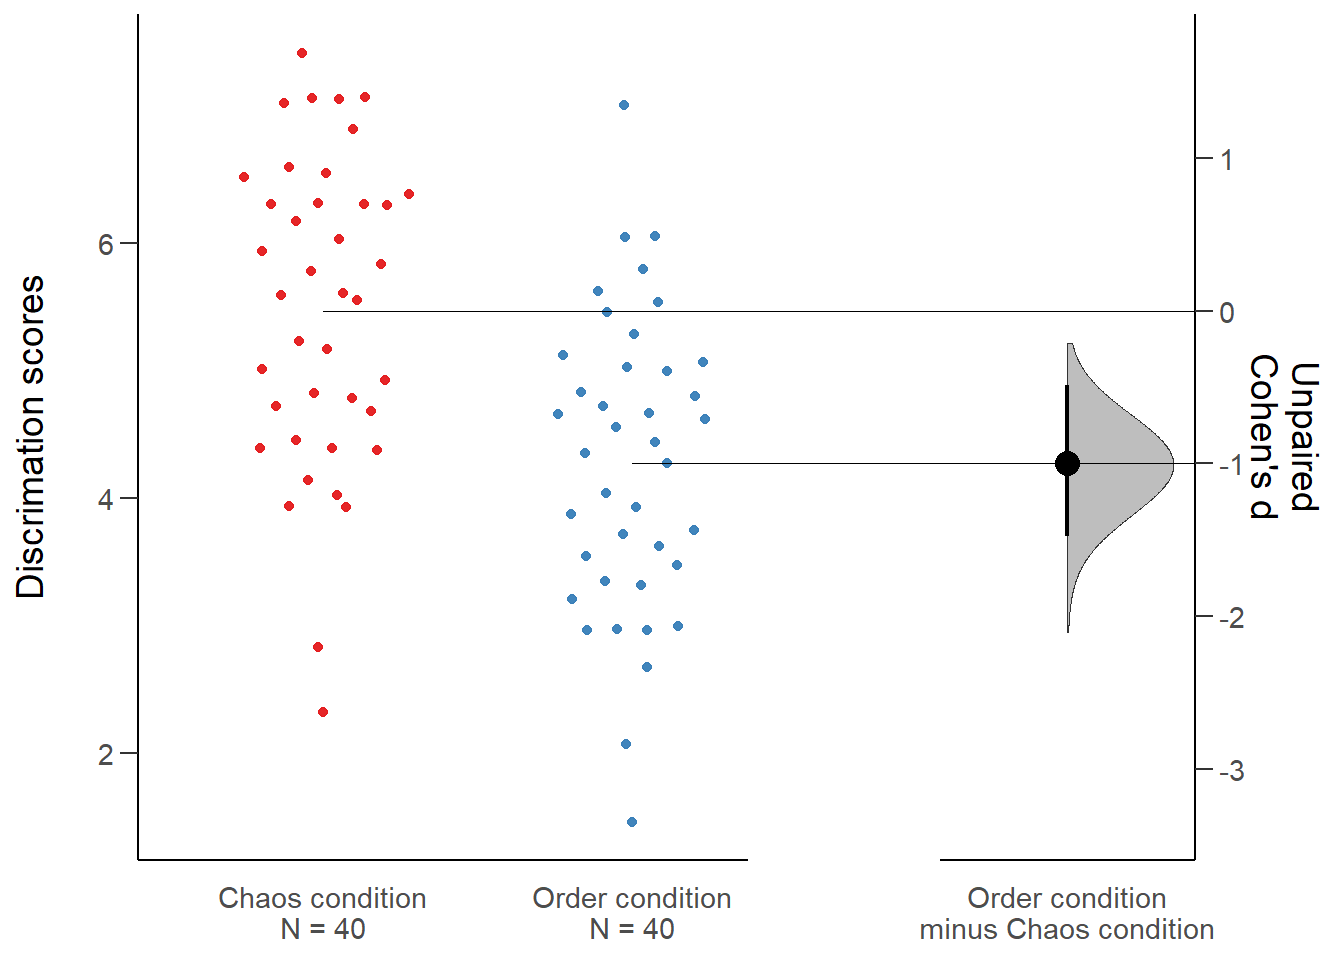
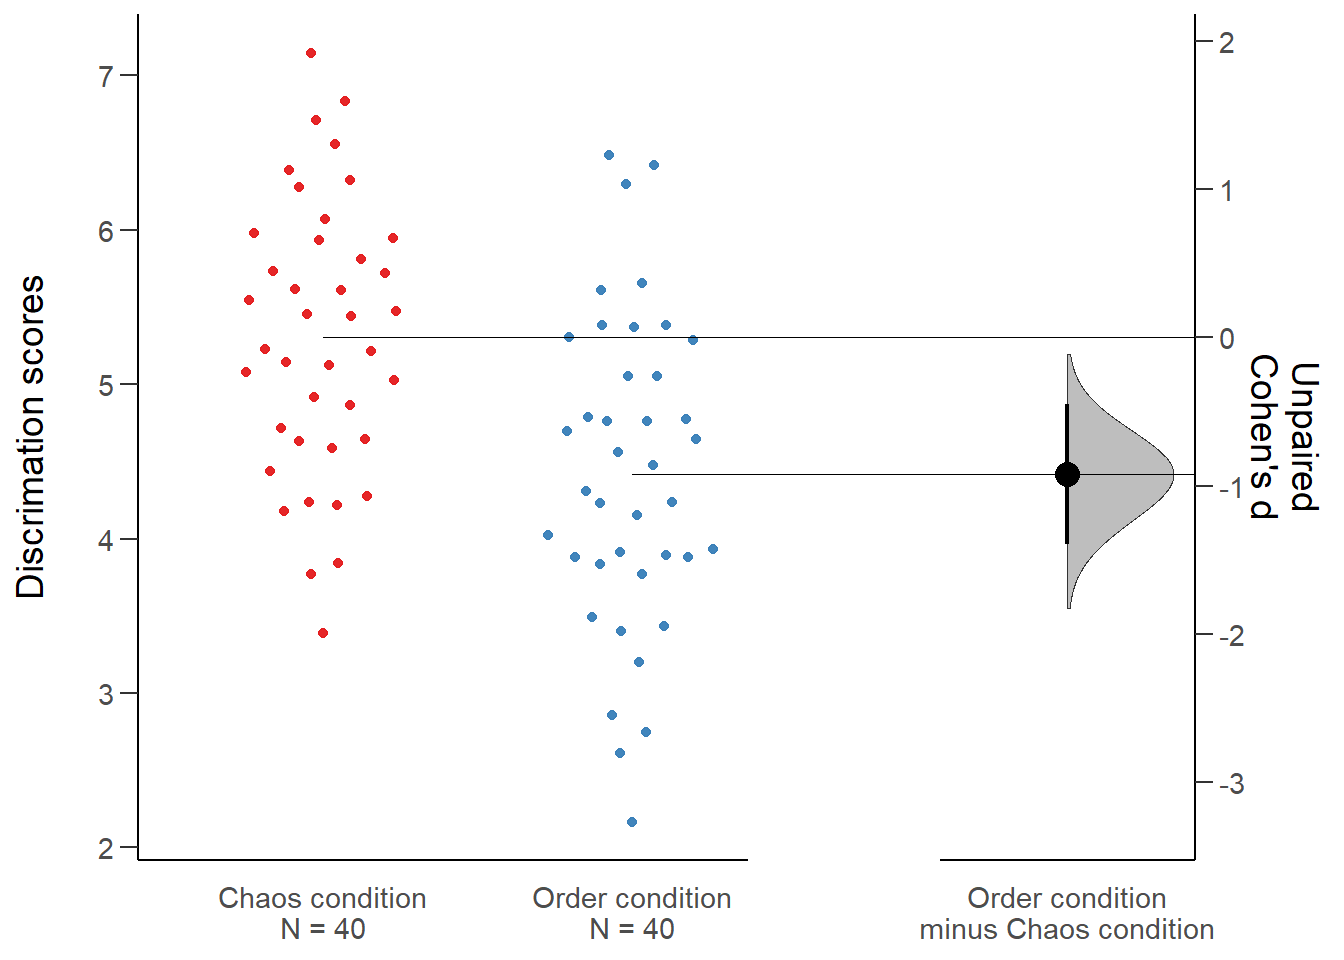
Commit

diff --git a/content/post/CopyOf2020-12-01-r-rmarkdown/index.html b/content/post/CopyOf2020-12-01-r-rmarkdown/index.html
@@ -82,7 +82,7 @@ library(ggplot2)</code></pre>
 ##  Shapiro-Wilk normality test
 ## 
 ## data:  dd[x, ]
-## W = 0.96465, p-value = 0.2407
+## W = 0.99165, p-value = 0.9901
 ## 
 ## ------------------------------------------------------------ 
 ## data$condition: Order condition
@@ -90,7 +90,7 @@ library(ggplot2)</code></pre>
 ##  Shapiro-Wilk normality test
 ## 
 ## data:  dd[x, ]
-## W = 0.99218, p-value = 0.9933</code></pre>
+## W = 0.98572, p-value = 0.8855</code></pre>
 <p>Para comprobar la homogeneidad de las varianzas:</p>
 <p>F-test:</p>
 <pre class="r"><code>var.test(data$discrimination ~ data$condition) #F-test para comprobar la homogeneidad de las varianzas</code></pre>
@@ -98,18 +98,18 @@ library(ggplot2)</code></pre>
 ##  F test to compare two variances
 ## 
 ## data:  data$discrimination by data$condition
-## F = 1.0857, num df = 39, denom df = 39, p-value = 0.7986
+## F = 0.75977, num df = 39, denom df = 39, p-value = 0.3947
 ## alternative hypothesis: true ratio of variances is not equal to 1
 ## 95 percent confidence interval:
-##  0.5742376 2.0527952
+##  0.4018406 1.4365071
 ## sample estimates:
 ## ratio of variances 
-##           1.085722</code></pre>
+##          0.7597676</code></pre>
 <p>Test de Levene. Por defecto utiliza la mediana (más robusto), pero podemos elegir la media con sustituyendo en el argumento center = “mean”</p>
 <pre class="r"><code>leveneTest(y = data$discrimination, group = data$condition, center = &quot;median&quot;) </code></pre>
 <pre><code>## Levene&#39;s Test for Homogeneity of Variance (center = &quot;median&quot;)
 ##       Df F value Pr(&gt;F)
-## group  1  0.1493 0.7002
+## group  1  0.5767 0.4499
 ##       78</code></pre>
 <p>Test de Barlett:</p>
 <pre class="r"><code>bartlett.test(data$discrimination ~ data$condition)</code></pre>
@@ -117,7 +117,7 @@ library(ggplot2)</code></pre>
 ##  Bartlett test of homogeneity of variances
 ## 
 ## data:  data$discrimination by data$condition
-## Bartlett&#39;s K-squared = 0.065098, df = 1, p-value = 0.7986</code></pre>
+## Bartlett&#39;s K-squared = 0.72437, df = 1, p-value = 0.3947</code></pre>
 <p>También podemos realizar el test de Brown-Forsyth con la función hov() del paquete HH o el Fligner-Killeen test utilizando la misma fórmula y la función fligner.test().</p>
 <p>Si el resultado del test que elijamos es p &lt; .05 no podemos asumir que las varianzas son iguales. Estas pruebas apuntarían a que nuestros grupos las varianzas no son homogéneas y utilizaríamos pruebas distintas para calcular si hay diferencias significativas entre las medias.</p>
 <p>Si utilizamos t.test() para las diferencias de medias el propio programa lleva a cabo una prueba (e.g. Two Sample t-test) u otra (e.g. Welch Two Sample t-test) en función de si hay igualdad de las varianzas, pero podemos forzarlo asumir igualdad de varianzas con el argumento var.equal = TRUE o a asumir lo contrario, con el argumento var.equal = FALSE. Por tanto, está bien tener control sobre lo que hacemos y elegir la mejor prueba, teniendo en cuanta nuestras consideraciones teóricas, para estudiar la homogeneidad de la varianza y, en consecuencia, el mejor test de comparación de medias.</p>
@@ -131,46 +131,46 @@ library(ggplot2)</code></pre>
 ##  Two Sample t-test
 ## 
 ## data:  discrimination by condition
-## t = 4.4684, df = 78, p-value = 2.632e-05
+## t = 4.117, df = 78, p-value = 9.461e-05
 ## alternative hypothesis: true difference in means between group Chaos condition and group Order condition is not equal to 0
 ## 95 percent confidence interval:
-##  0.6629921 1.7284715
+##  0.4565375 1.3115107
 ## sample estimates:
 ## mean in group Chaos condition mean in group Order condition 
-##                      5.467932                      4.272200</code></pre>
+##                      5.302584                      4.418560</code></pre>
 <p>Si no podemos asumir varianzas iguales:</p>
 <pre class="r"><code>t.test(discrimination ~ condition, data = data, alternative = &quot;two.sided&quot;, var.equal = FALSE)</code></pre>
 <pre><code>## 
 ##  Welch Two Sample t-test
 ## 
 ## data:  discrimination by condition
-## t = 4.4684, df = 77.868, p-value = 2.637e-05
+## t = 4.117, df = 76.573, p-value = 9.602e-05
 ## alternative hypothesis: true difference in means between group Chaos condition and group Order condition is not equal to 0
 ## 95 percent confidence interval:
-##  0.6629779 1.7284857
+##  0.456412 1.311636
 ## sample estimates:
 ## mean in group Chaos condition mean in group Order condition 
-##                      5.467932                      4.272200</code></pre>
+##                      5.302584                      4.418560</code></pre>
 <p>Medidas repetidas</p>
 <pre class="r"><code>t.test(discrimination ~ condition, data = data, alternative = &quot;two.sided&quot;, paired = TRUE, var.equal = TRUE)</code></pre>
 <pre><code>## 
 ##  Paired t-test
 ## 
 ## data:  discrimination by condition
-## t = 4.4683, df = 39, p-value = 6.593e-05
+## t = 4.3077, df = 39, p-value = 0.000108
 ## alternative hypothesis: true difference in means is not equal to 0
 ## 95 percent confidence interval:
-##  0.6544559 1.7370077
+##  0.4689327 1.2991155
 ## sample estimates:
 ## mean of the differences 
-##                1.195732</code></pre>
+##               0.8840241</code></pre>
 <p>Si los datos no siguen una distribución normal, como test no paramétrico, podemos utilizar el de Wilcoxon:</p>
 <pre class="r"><code>wilcox.test(data$discrimination ~ data$condition, alternative = &quot;two.sided&quot;, paired = FALSE) #Para medidas repetidas en el argumento paired escribiríamos TRUE</code></pre>
 <pre><code>## 
 ##  Wilcoxon rank sum exact test
 ## 
 ## data:  data$discrimination by data$condition
-## W = 1222, p-value = 3.008e-05
+## W = 1183, p-value = 0.0001687
 ## alternative hypothesis: true location shift is not equal to 0</code></pre>
 </div>
 <div id="la-lógica-subyacente" class="section level1">
@@ -200,7 +200,7 @@ difmed</code></pre>
 ## # A tibble: 1 x 1
 ##    stat
 ##   &lt;dbl&gt;
-## 1  1.20</code></pre>
+## 1 0.884</code></pre>
 <p>Ahora calculamos el intervalo de confianza usando una distribución ‘bootstrapped’ de las diferencias de medias basada en nuestra muestra.</p>
 <pre class="r"><code>medboot &lt;- data %&gt;% 
   specify(discrimination ~ condition) %&gt;% 
@@ -253,13 +253,13 @@ cond_diffs_null %&gt;%
 <pre class="r"><code>cohens_d(data$discrimination, y = data$condition, ci = 0.95, pooled_sd = TRUE) #Con pooled_sd = TRUE indicamos que utilice la desviación típica agrupada de ambas muestras. Asumimos que las varianzas son iguales. </code></pre>
 <pre><code>## Cohen&#39;s d |       95% CI
 ## ------------------------
-## 1.00      | [0.53, 1.46]
+## 0.92      | [0.46, 1.38]
 ## 
 ## - Estimated using pooled SD.</code></pre>
 <pre class="r"><code>hedges_g(data$discrimination, y = data$condition, ci = 0.95, pooled_sd = FALSE)</code></pre>
 <pre><code>## Hedges&#39; g |       95% CI
 ## ------------------------
-## 0.99      | [0.53, 1.45]
+## 0.91      | [0.45, 1.37]
 ## 
 ## - Estimated using un-pooled SD.</code></pre>
 <div id="interpretar-y-transformar-el-tamaño-del-efecto" class="section level2">
